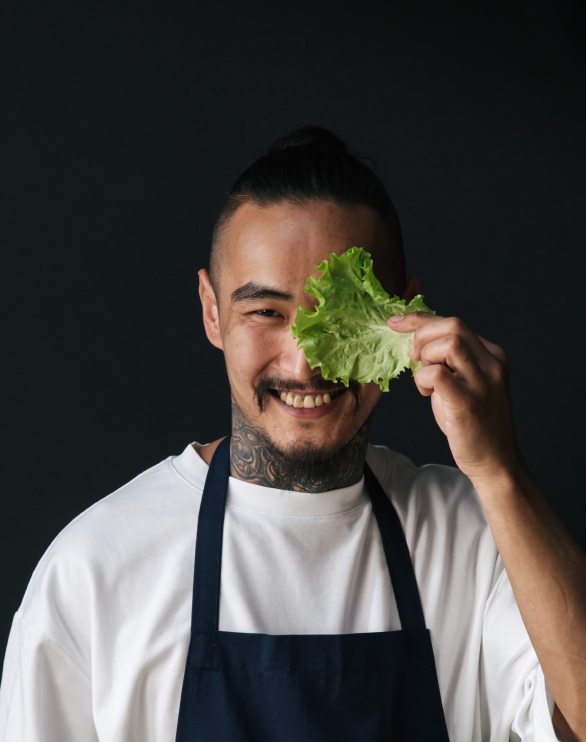
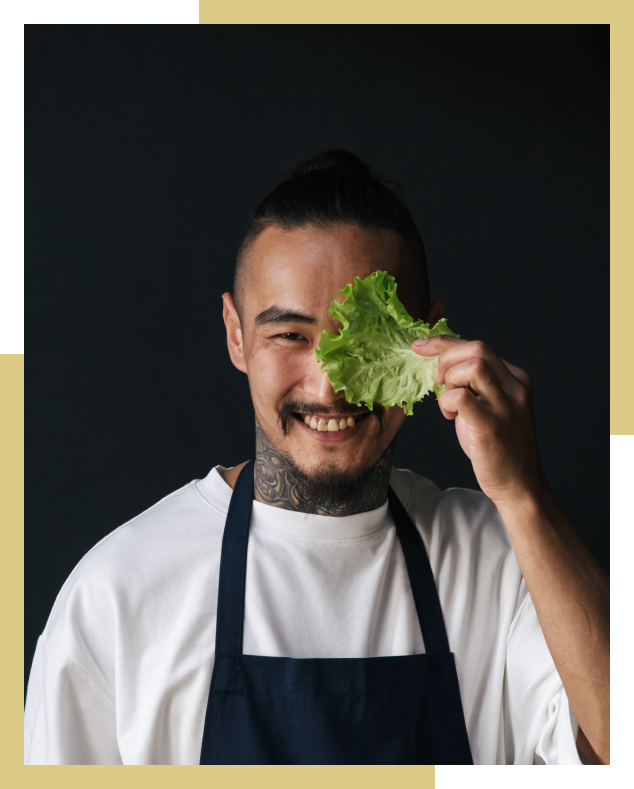
Chef Section done with all styling and responsiveness

diff --git a/src/Components/ChefSection.jsx b/src/Components/ChefSection.jsx
@@ -1,0 +1,59 @@
+import React from "react";
+import chefImg from "../assets/chefImg.png";
+
+function ChefSection() {
+  return (
+    <div className="chefMain flex items-center justify-center text-white">
+      <div className="chefCont flex flex-col p-5">
+        <div className="chefImage flex items-center justify-center">
+          <img src={chefImg} />
+        </div>
+        <div className="chefWord flex flex-col justify-center py-7">
+          <h3 className="text-2xl font-semibold">Chef's Word</h3>
+          <span>
+            <svg
+              xmlns="http://www.w3.org/2000/svg"
+              width="40"
+              height="10"
+              viewBox="0 0 40 10"
+              fill="none"
+            >
+              <path
+                d="M33.5016 9.5C37.0849 9.5 40 7.48129 40 4.99995C40 2.51861 37.0849 0.5 33.5016 0.5C30.1122 0.5 27.3221 2.30637 27.03 4.6018H22.3529V3.6552L0 3.6552V6.34446L22.353 6.34446V5.39798H27.0301C27.3223 7.69352 30.1122 9.5 33.5016 9.5ZM21.4898 5.54839L0.863293 5.54839V4.45161H21.4898V5.54839ZM27.8662 4.99995C27.8662 2.95778 30.3944 1.2964 33.5017 1.2964C36.6091 1.2964 39.1372 2.95778 39.1372 4.99995C39.1372 7.04222 36.6091 8.7037 33.5017 8.7037C30.3944 8.7037 27.8662 7.04222 27.8662 4.99995Z"
+                fill="#DCCA87"
+              />
+            </svg>
+          </span>
+          <h1 className="text-customYellow text-4xl py-2">
+            What We Believe In
+          </h1>
+          <p className="py-12 font-roboto text-gray-400">
+            <svg
+              xmlns="http://www.w3.org/2000/svg"
+              width="47"
+              height="41"
+              viewBox="0 0 47 41"
+              fill="none"
+            >
+              <path
+                d="M12.9137 23.3571C15.3163 23.3571 17.2183 24.1592 18.6198 25.7632C20.1214 27.2669 20.8722 29.2719 20.8722 31.7782C20.8722 34.485 19.9712 36.6404 18.1693 38.2444C16.4675 39.7481 14.115 40.5 11.1118 40.5C7.60809 40.5 4.85517 39.1466 2.85304 36.4399C0.951012 33.7331 0 29.8734 0 24.8609C0 20.3496 1.00107 16.1892 3.00319 12.3797C5.00533 8.46992 8.00852 4.56015 12.0128 0.650374C12.1129 0.550125 12.263 0.5 12.4633 0.5C12.7636 0.5 13.0138 0.650374 13.2141 0.951122C13.4143 1.25188 13.4143 1.5025 13.2141 1.703C8.30884 6.71553 5.85623 12.6303 5.85623 19.4474C5.85623 22.2544 6.35676 24.3095 7.35783 25.6128C8.25879 24.109 10.1108 23.3571 12.9137 23.3571ZM39.0415 23.3571C41.4441 23.3571 43.3461 24.1592 44.7476 25.7632C46.2492 27.2669 47 29.2719 47 31.7782C47 34.485 46.099 36.6404 44.2971 38.2444C42.5953 39.7481 40.2428 40.5 37.2396 40.5C33.7359 40.5 30.983 39.1466 28.9808 36.4399C27.0788 33.7331 26.1278 29.8734 26.1278 24.8609C26.1278 20.3496 27.1289 16.1892 29.131 12.3797C31.1331 8.46992 34.1363 4.56015 38.1406 0.650374C38.2407 0.550125 38.3908 0.5 38.5911 0.5C38.8914 0.5 39.1416 0.650374 39.3419 0.951122C39.5421 1.25188 39.5421 1.5025 39.3419 1.703C34.4366 6.71553 31.984 12.6303 31.984 19.4474C31.984 22.2544 32.4846 24.3095 33.4856 25.6128C34.3866 24.109 36.2386 23.3571 39.0415 23.3571Z"
+                fill="white"
+              />
+            </svg>
+            Our dedicated team of chefs is at the forefront of crafting
+            exquisite dishes that elevate your dining experience. With years of
+            expertise and an unwavering commitment to quality, they infuse each
+            creation with innovation and passion. From savory starters to
+            indulgent desserts, our chefs blend global influences into our menu,
+            offering a unique fusion of flavors.
+          </p>
+          <h3 className="text-3xl text-customYellow py-2">Kevin Luo</h3>
+          <p className="text-gray-400 font-roboto">Chef & Founder</p>
+          <h2 className="text-5xl py-12">Kevin Luo</h2>
+        </div>
+      </div>
+    </div>
+  );
+}
+
+export default ChefSection;

diff --git a/src/index.css b/src/index.css
@@ -2,8 +2,8 @@
 @tailwind components;
 @tailwind utilities;
 
+@import url(https://db.onlinewebfonts.com/c/58f07bc157a628f8269bca53316beeed?family=Bestermind);
 @import url("https://fonts.googleapis.com/css2?family=Cormorant+Upright&family=Roboto:wght@300&display=swap");
-
 * {
   font-family: "Cormorant Upright";
   margin: 0;
@@ -90,9 +90,18 @@ button {
   border-radius: 10px;
 }
 
-/* ----------------- Drinks ---------------- */
+/* ----------------- Chef ---------------- */
 
+.chefMain {
+  background: url("./assets/chefBg.png");
+  background-repeat: no-repeat;
+  background-size: cover;
+  background-position: center;
+}
 
+.chefMain h2 {
+  font-family: Bestermind;
+}
 
 /* ----------------- Responsiveness ---------------- */
 
@@ -143,18 +152,39 @@ button {
     width: 159px;
     height: 46px;
   }
-  .DrinksMenu{
+  .DrinksMenu {
     width: 100%;
     flex-direction: row;
   }
-  .wineMenu{
+  .wineMenu {
     width: 33.33%;
+  }
+  .chefMain {
+    padding: 50px;
+  }
+  .chefCont {
+    flex-direction: row;
+  }
+
+  .chefImage {
+    width: 50%;
+  }
+  .chefWord {
+    width: 50%;
+    padding-left: 30px;
   }
 }
 
 @media (min-width: 400px) and (max-width: 810px) {
   .about {
     margin-top: 300px;
+  }
+}
+
+@media (min-width: 1000px) {
+  .chefMain h1 {
+    font-size: 60px;
+    margin-top: 20px;
   }
 }
 

diff --git a/src/App.jsx b/src/App.jsx
@@ -6,6 +6,7 @@ import Header from "./Components/Header";
 import About from "./Components/About";
 import Menu from "./Components/Menu";
 import Drinks from "./Components/Drinks";
+import ChefSection from "./Components/ChefSection";
 
 function App() {
   const [load, setLoad] = useState(true);
@@ -26,6 +27,7 @@ function App() {
           <About />
           <Menu />
           <Drinks />
+          <ChefSection />
         </div>
       )}
     </>
